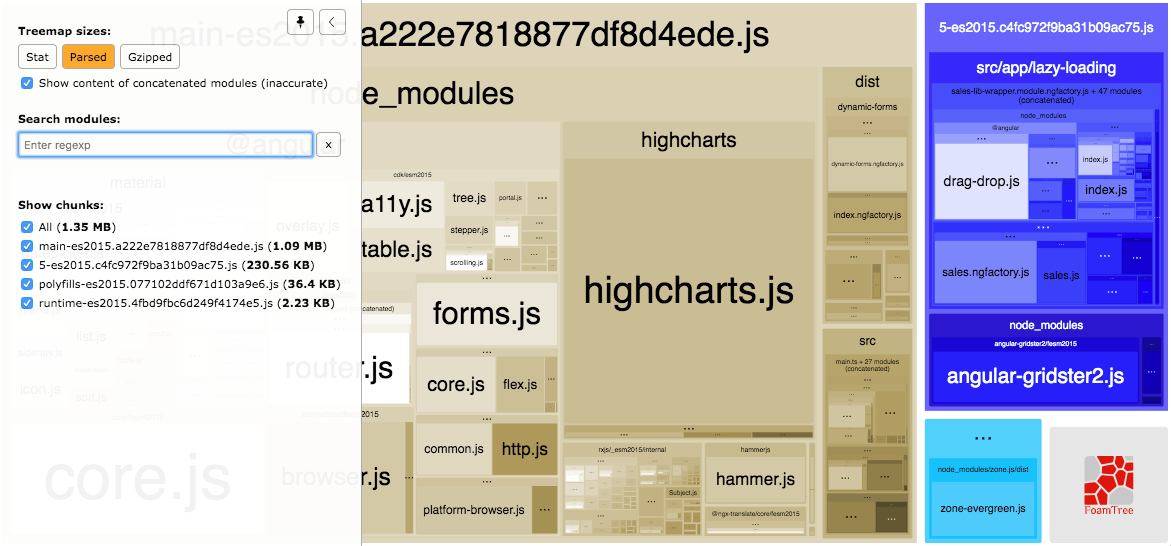
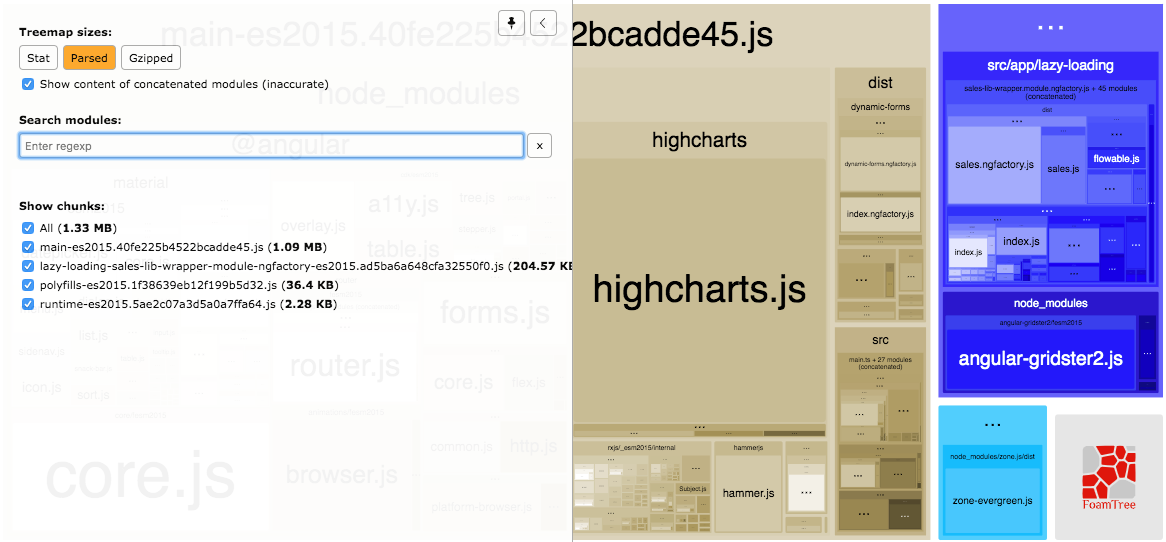
Added support for lazy-loading libs

diff --git a/src/index.html b/src/index.html
@@ -12,8 +12,8 @@
   <!--
   <link rel="preconnect" href="https://fonts.gstatic.com/" crossorigin>
 
-  <link rel="preload" href="https://fonts.gstatic.com/s/materialicons/v48/flUhRq6tzZclQEJ-Vdg-IuiaDsNcIhQ8tQ.woff2" as="font" crossorigin>
-  <link rel="preload" href="https://fonts.gstatic.com/s/opensans/v17/mem5YaGs126MiZpBA-UN_r8OUuhpKKSTjw.woff2" as="font" crossorigin>
+  <link rel="preload" href="https://fonts.gstatic.com/s/materialicons/v48/flUhRq6tzZclQEJ-Vdg-IuiaDsNcIhQ8tQ.woff2" as="font" type="font/woff2" crossorigin>
+  <link rel="preload" href="https://fonts.gstatic.com/s/opensans/v17/mem5YaGs126MiZpBA-UN_r8OUuhpKKSTjw.woff2" as="font" type="font/woff2" crossorigin>
   -->
 
   <link rel="icon" type="image/x-icon" href="favicon.ico">

diff --git a/docs/developer.md b/docs/developer.md
@@ -246,7 +246,7 @@ To help you visualise bundle sizes you can use the [Webpack Bundle Analyzer](htt
 For example ("target": "es5"):
 
 ```
-ng build --prod --stats-json && ./node_modules/webpack-bundle-analyzer/lib/bin/analyzer.js ./dist/serendipity/stats.json
+ng build --prod --named-chunks --stats-json && ./node_modules/webpack-bundle-analyzer/lib/bin/analyzer.js ./dist/serendipity/stats.json
 ```
 
 <p align="center">
@@ -256,7 +256,7 @@ ng build --prod --stats-json && ./node_modules/webpack-bundle-analyzer/lib/bin/a
 For example ("target": "es2015"):
 
 ```
-ng build --prod --stats-json && ./node_modules/webpack-bundle-analyzer/lib/bin/analyzer.js ./dist/serendipity/stats-es2015.json
+ng build --prod --named-chunks --stats-json && ./node_modules/webpack-bundle-analyzer/lib/bin/analyzer.js ./dist/serendipity/stats-es2015.json
 ```
 
 <p align="center">
